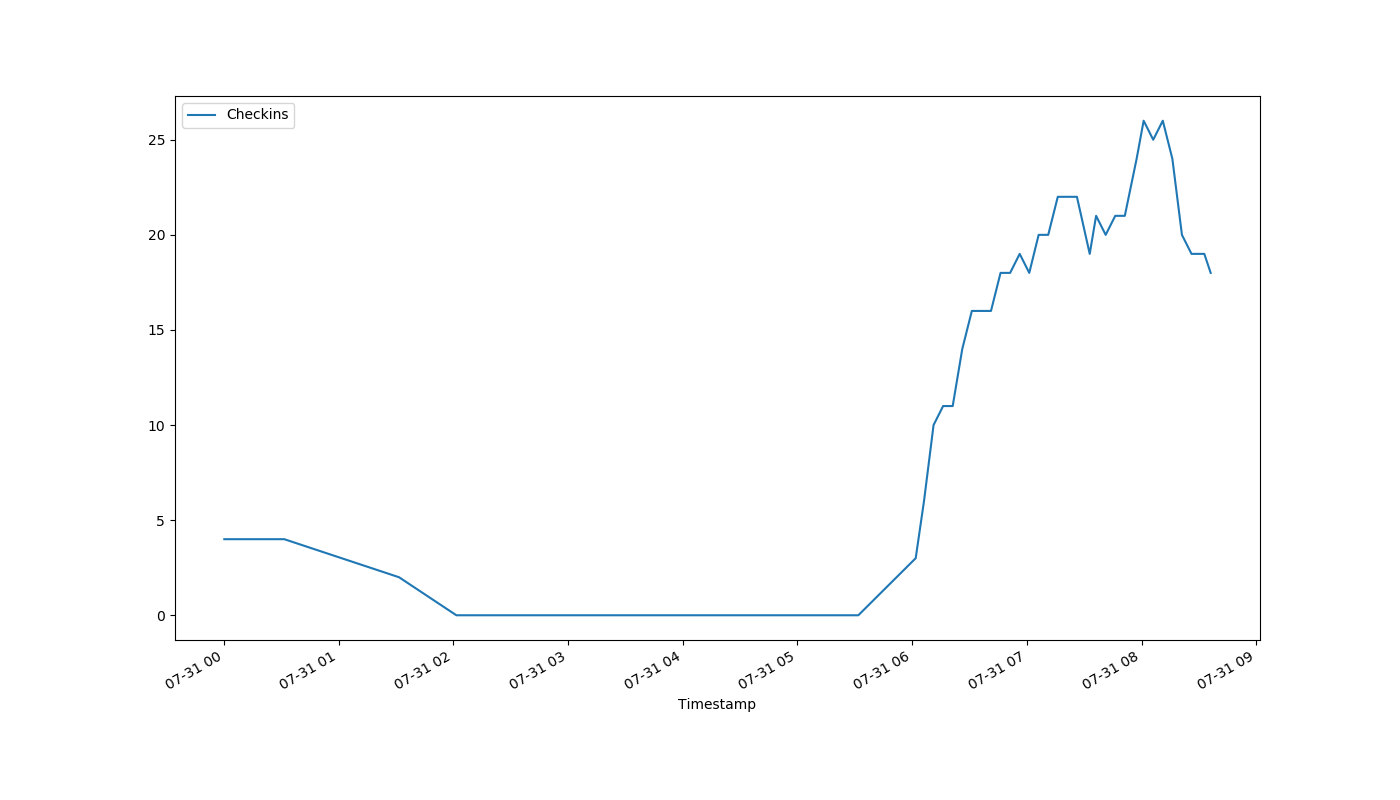
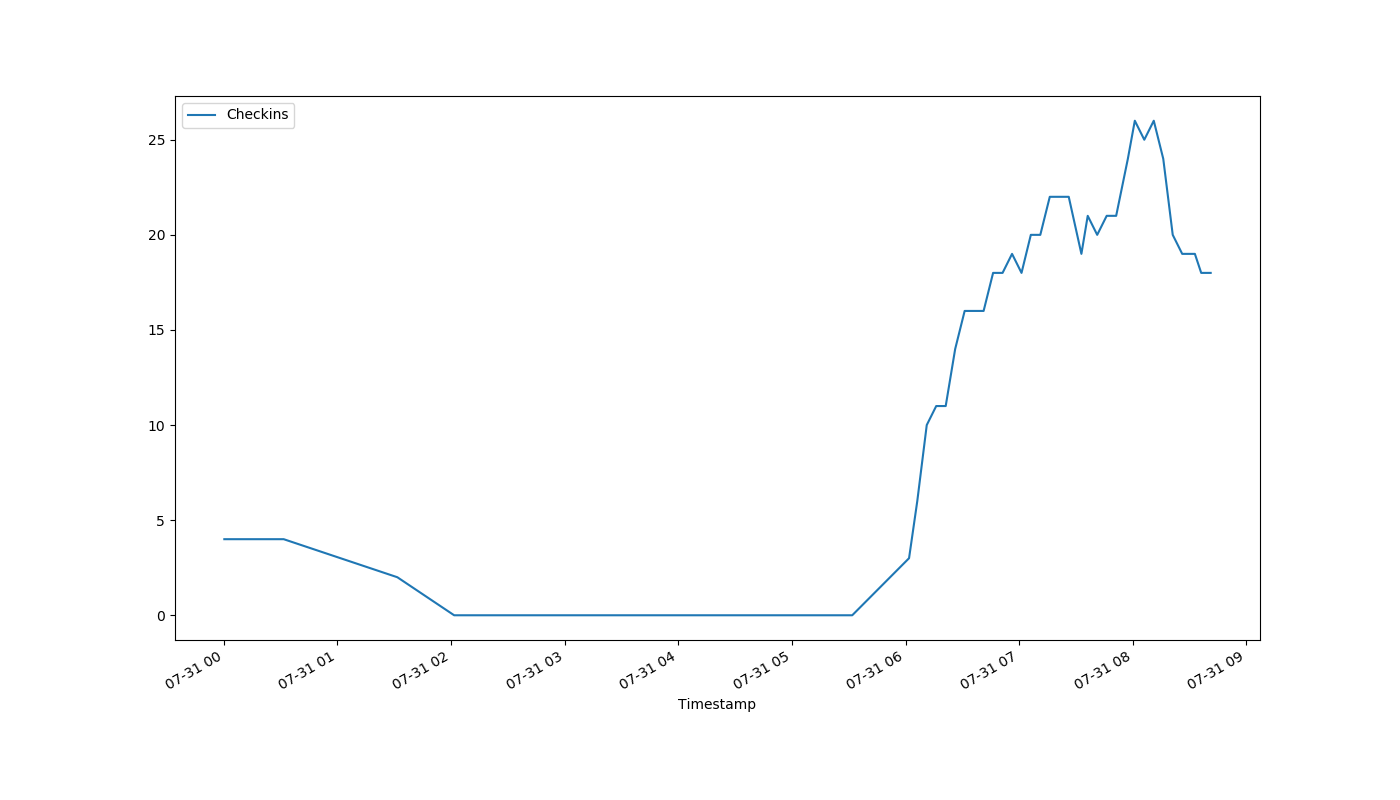
auto-Jul-31-08:41:31

diff --git a/index.html b/index.html
@@ -1,1 +1,1 @@
-<!DOCTYPE html><html><head><meta http-equiv="refresh" content="30"><link rel='stylesheet' href='holmcurrent.css'></head><body><p id='count'>18</p><div id='graph-wrap'><img id='graph' src='holmgraph-Jul-31.png'></div><p id='updated'>Last updated 08:36:07 / 08:36:05</p></body></html>
+<!DOCTYPE html><html><head><meta http-equiv="refresh" content="30"><link rel='stylesheet' href='holmcurrent.css'></head><body><p id='count'>18</p><div id='graph-wrap'><img id='graph' src='holmgraph-Jul-31.png'></div><p id='updated'>Last updated 08:41:07 / 08:41:05</p></body></html>
